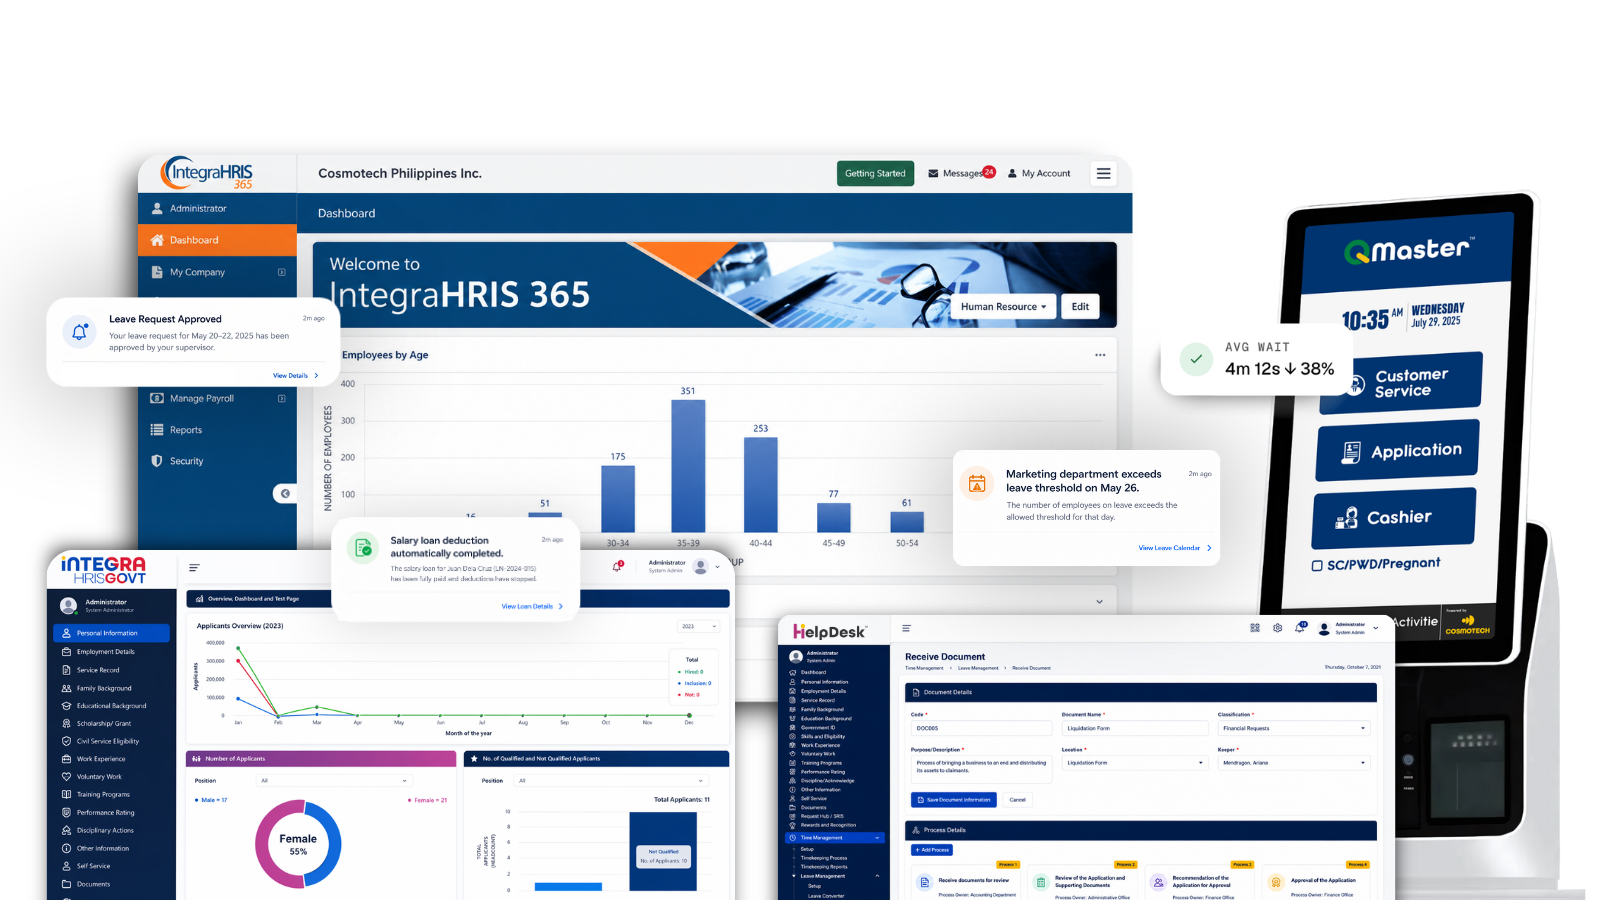
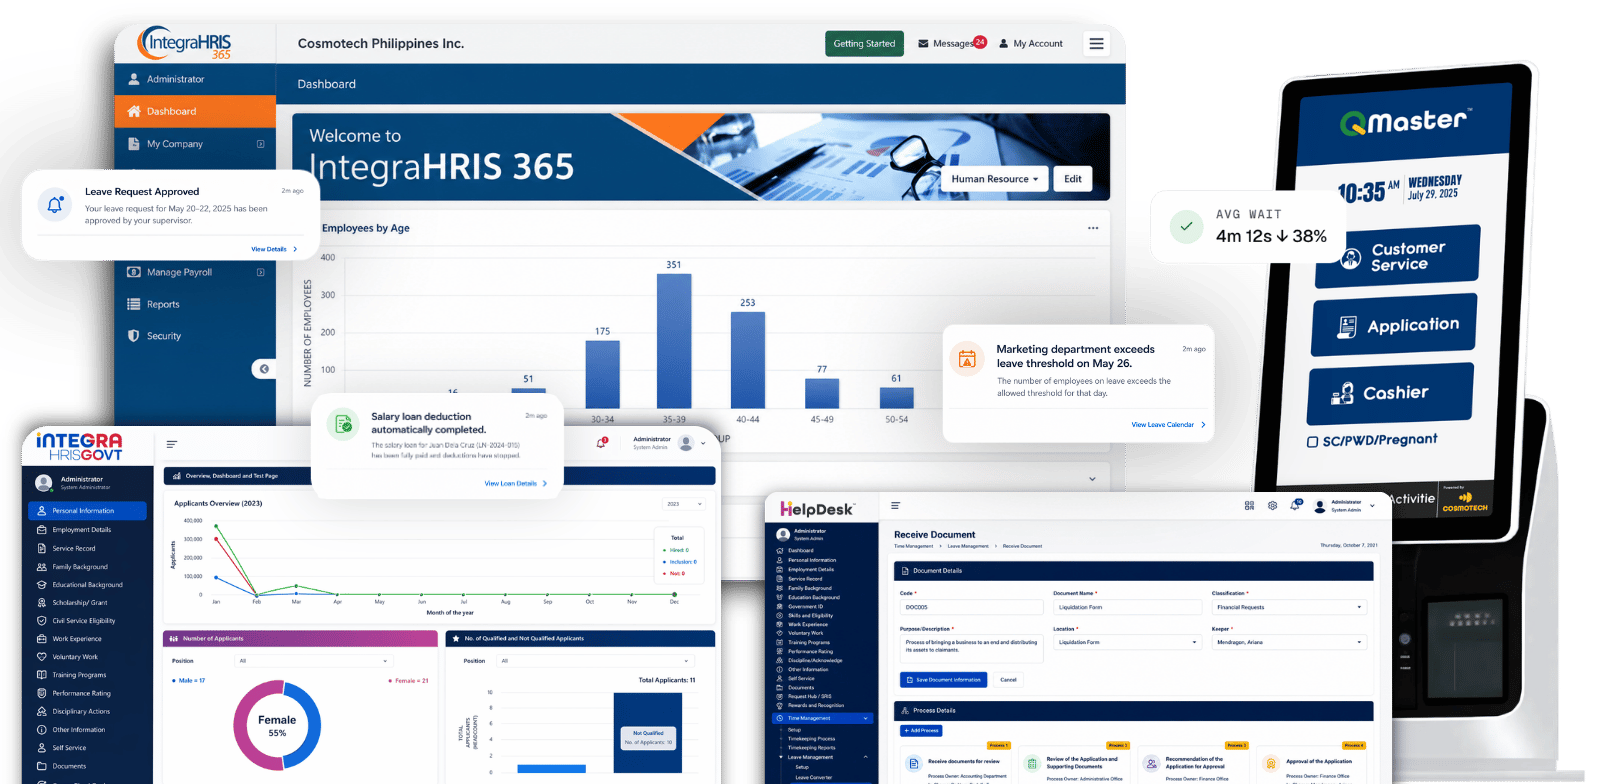
Changes

diff --git a/src/routes/index.tsx b/src/routes/index.tsx
@@ -11,7 +11,7 @@ import { WhyCosmotech } from "@/components/WhyCosmotech";
 import { FaqSection } from "@/components/FaqSection";
 import { useReveal } from "@/hooks/use-reveal";
 import { PROJECTS, PRODUCTS } from "@/lib/site";
-import heroImage from "@/assets/hero-image.webp";
+import heroImage from "@/assets/hero-image.png";
 import ourClients from "@/assets/our-clients.webp";
 
 export const Route = createFileRoute("/")({
